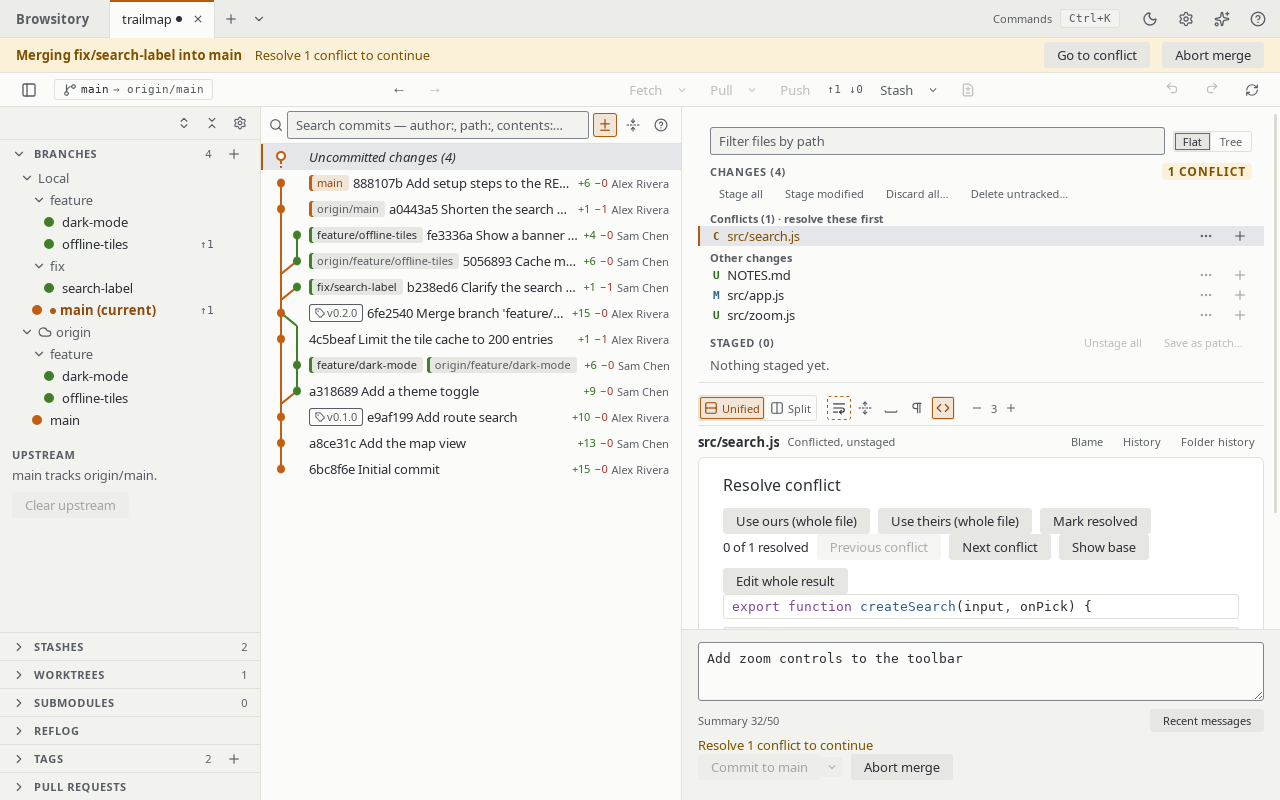
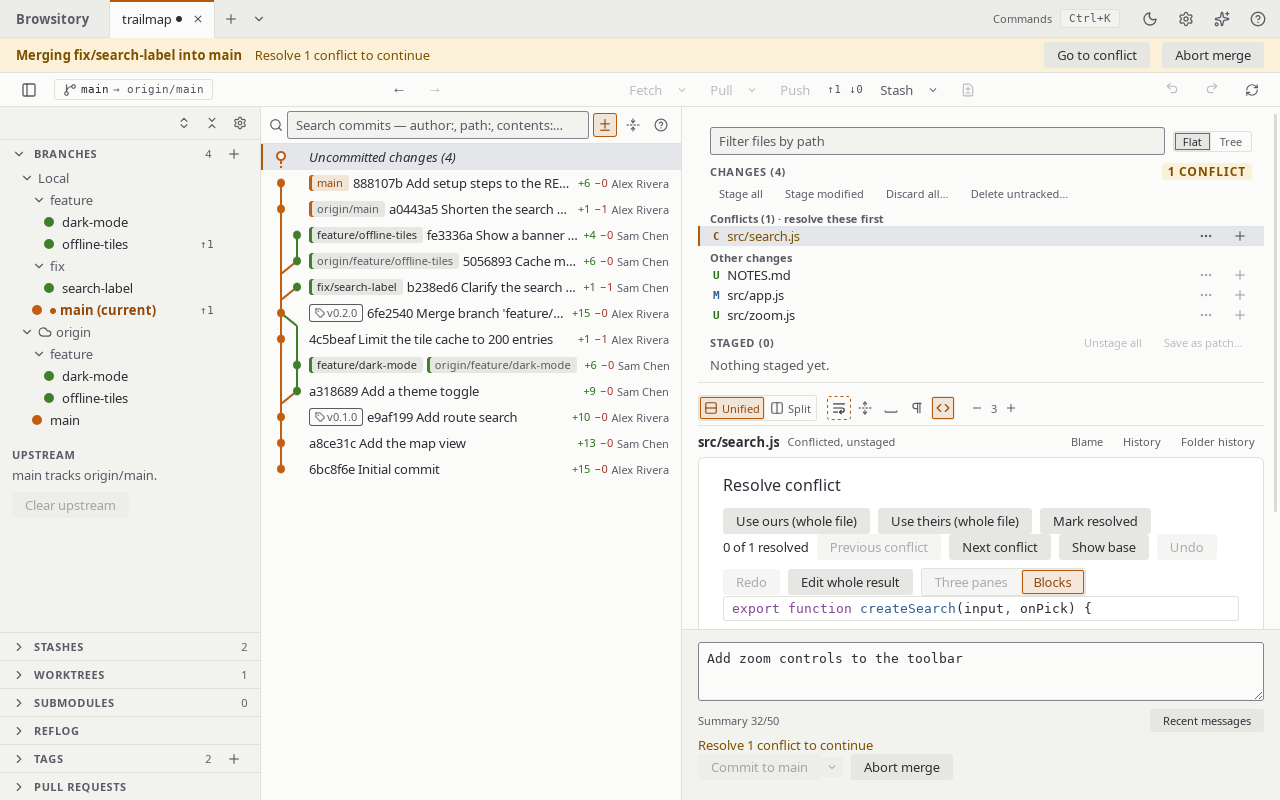
Guide: the planner's Edit step, an Edit commit… screenshot, recaptured merge editor (#885, #933)
rebase.md describes the planner's Edit step (the same stop as Edit commit…, with Commit part
and the question about changes left unstaged) and lists edit and split among the one-step
edits. rewriting-commits.md gets `edit-commit.png`, a new shot the capture takes last (it ends
the demo merge and stashes the changes first). Recaptured: `merge-editor.png` in three panes
(#933), `conflict.png` and `dark-theme.png` (word marks), `command-palette.png` (its first
command changed); the other shots differed only by a few pixels and are left as they were.

Claude-Session: https://claude.ai/code/session_01A4tHCJjnzi8pBrcnnZcgkk

Changed region(s): [[0.5625, 0.6875, 0.875, 0.7812]]

diff --git a/e2e/screenshots/capture.docs.ts b/e2e/screenshots/capture.docs.ts
@@ -4,7 +4,7 @@ import { fileURLToPath } from "node:url";
 import { clickInPage, waitUntilInPage } from "../support/dom";
 import { expandSidebarSection, sidebarBranchRow, sidebarRemoteFolder, sidebarSectionToggle } from "../support/sidebar";
 import { SLOW_UI_TIMEOUT } from "../support/timeouts";
-import { DEMO_REPO_PATH, startConflict } from "./demoRepo";
+import { cleanForEdit, DEMO_REPO_PATH, startConflict } from "./demoRepo";
 
 // Captures the documentation screenshots into docs/guide/assets/ (see ./README.md). Run it with
 // `pnpm screenshots`, never as part of the E2E suite: it asserts nothing beyond "the screen it
@@ -191,5 +191,47 @@ describe("Documentation screenshots", () => {
     await browser.execute((el) => (el as HTMLElement).scrollIntoView({ block: "start" }), block);
     await shoot("merge-editor");
     await browser.setWindowSize(WINDOW.width, WINDOW.height);
+  });
+
+  it("edit-commit", async () => {
+    // Edit commit… (#882, #885) needs a clean tracked tree: end the merge, stash the changes.
+    cleanForEdit();
+    // Reload status through the palette's "Refresh" command, as for the conflict.
+    await browser.keys(["Control", "k"]);
+    const input = await $('input[aria-label="Command palette"]');
+    await input.waitForDisplayed();
+    await input.setValue("Refresh");
+    await browser.keys(["Enter"]);
+    await browser.waitUntil(async () => !(await (await $("button*=Abort merge")).isExisting()), {
+      timeout: SLOW_UI_TIMEOUT,
+      timeoutMsg: "the app still shows the merge",
+    });
+    const subject = "Add setup steps to the README";
+    await $(`li*=${subject}`).waitForExist({ timeout: SLOW_UI_TIMEOUT });
+    // Found and clicked inside the page in one step, as history-rewrite.spec.ts does: a refresh
+    // can close the menu between finding the item and clicking it.
+    await browser.waitUntil(
+      () =>
+        browser.execute((wanted: string) => {
+          const item = Array.from(document.querySelectorAll<HTMLButtonElement>('[role="menu"] button')).find(
+            (button) => !button.disabled && (button.textContent ?? "").trim() === "Edit commit…",
+          );
+          if (item !== undefined) {
+            item.click();
+            return true;
+          }
+          Array.from(document.querySelectorAll("li"))
+            .find((li) => (li.textContent ?? "").includes(wanted))
+            ?.dispatchEvent(new MouseEvent("contextmenu", { bubbles: true, cancelable: true, clientX: 50, clientY: 50 }));
+          return false;
+        }, subject),
+      { timeout: SLOW_UI_TIMEOUT, timeoutMsg: "could not pick Edit commit… from the menu" },
+    );
+    await waitUntilInPage("[role='status']", "Editing ", { contains: true, timeout: SLOW_UI_TIMEOUT });
+    await click("li*=Uncommitted changes");
+    await waitUntilInPage("button", "Commit part");
+    await clickInPage("span", "README.md (Modified)");
+    await waitUntilInPage(".diff-line-add");
+    await shoot("edit-commit");
   });
 });

diff --git a/e2e/screenshots/demoRepo.ts b/e2e/screenshots/demoRepo.ts
@@ -305,3 +305,12 @@ export function startConflict(): void {
     throw new Error("expected the demo merge to stop on a conflict");
   }
 }
+
+/**
+ * Ends the conflicted merge and stashes the working tree's changes (untracked files too), so
+ * Edit commit… can start: like a rebase, it needs a clean tracked tree.
+ */
+export function cleanForEdit(): void {
+  git(["merge", "--abort"]);
+  git(["stash", "push", "-q", "--include-untracked", "-m", "Before editing a commit"], "alex", nextDate());
+}

diff --git a/docs/guide/rebase.md b/docs/guide/rebase.md
@@ -28,6 +28,13 @@ the text you type stays until the group itself changes. **Start rebase** waits u
 and the messages it needs have loaded; if the commits can't be listed, the planner says why and
 offers **Retry**, and a message that can't be read is replaced by its summary, with a note.
 
+**Edit** stops the rebase at that commit as **Edit commit…** does (see [Editing older
+commits](rewriting-commits.md)): HEAD is the commit's parent, the commit's changes are staged,
+and the status strip says "Editing 1a2b3c4: change the files, then Continue". Change, stage or
+unstage files, edit the message in the commit area if you like, or commit the changes as
+several commits with **Commit part**; **Continue** commits what is staged and goes on with the
+next row. Changes left unstaged make Continue ask whether to commit or discard them.
+
 **Selecting several commits.** Ctrl/Cmd+click (mouse) toggles individual commits, which is how you
 select non-adjacent ones; Shift+click or Shift+Arrow selects a range. With two or more selected, a
 toolbar under the graph (and the right-click menu) offers **Interactive rebase…**, **Squash N commits**,
@@ -40,8 +47,8 @@ Drop and Interactive rebase… work for any selection. Selections that include a
 root commit, or commits that aren't on the current branch, can't be rebased. Esc collapses a
 selection back to one commit.
 
-**One commit, one step.** To reword, squash, fixup, move or drop a single commit, its right-click
-menu runs that edit directly, without the planner (see
+**One commit, one step.** To reword, edit, split, squash, fixup, move or drop a single commit,
+its right-click menu runs that edit directly, without the planner (see
 [Editing older commits](rewriting-commits.md)).
 
 **A paused rebase survives restarts.** Browsitory stores a paused rebase in the repository's

diff --git a/docs/guide/rewriting-commits.md b/docs/guide/rewriting-commits.md
@@ -74,6 +74,8 @@ The commit menu has eight one-click edits for commits of the current branch:
 - **Move up** and **Move down** swap the commit with the newer or the older neighbour.
 - **Drop** removes the commit and its changes from the branch.
 
+![Edit commit… stopped at a commit: the status strip, the staged change and the commit area with Commit part](assets/edit-commit.png)
+
 Each one is a small interactive rebase (see [Rebase](rebase.md)): the commits after the edited
 one are rewritten, so they get new ids. A conflict pauses it like any rebase: the progress panel
 shows **Continue rebase** and **Abort rebase**, the paused rebase survives a restart, and Abort

diff --git a/docs/guide/conflicts.md b/docs/guide/conflicts.md
@@ -60,7 +60,7 @@ A conflicted file opens the **Resolve conflict** pane:
   line both sides have, a line only one side has, and a pair of lines with no word in common
   are not marked.
 
-  ![The merge editor: one conflict block with our and their lines, the choices and the result](assets/merge-editor.png)
+  ![The merge editor in three panes: ours, the result and theirs, on one conflict block](assets/merge-editor.png)
 
 - From the keyboard: with a block focused, **1** to **5** take **Accept ours**, **Accept
   theirs**, **Ours then theirs**, **Theirs then ours** and **Accept base**. **F7** and

diff --git a/changelog.d/885-edit-older-commits.md b/changelog.d/885-edit-older-commits.md
@@ -1,0 +1,8 @@
+### Edit older commits: planner, guide and E2E
+
+- Changed: the rebase planner's **Edit** step stops like Edit commit…: the commit's changes
+  staged on its parent, "Editing 1a2b3c4: change the files, then Continue" in the status strip,
+  the commit's message editable in the commit area, and **Commit part** to split it. The guide's
+  Rebase and Rewriting pages describe it, with a new screenshot (#885).
+- Internal: an E2E flow per app edits an older commit's file, continues and checks the history
+  (#885). The guide's merge editor screenshot shows the three panes (#933).

diff --git a/e2e/screenshots/README.md b/e2e/screenshots/README.md
@@ -56,6 +56,7 @@ Then look at every changed image before you commit it.
 | `conflict.png` | A merge stopped on a conflict, with the resolve controls |
 | `dark-theme.png` | The same conflict in the dark theme |
 | `merge-editor.png` | The merge editor on that conflict in its three panes, in a 1600×1000 window |
+| `edit-commit.png` | Edit commit… stopped at the latest commit: the strip, the staged change and **Commit part** |
 
 To add a shot, add a test to `capture.docs.ts` that ends with `shoot("<name>")`, run the
 script, and add the file to this table.
